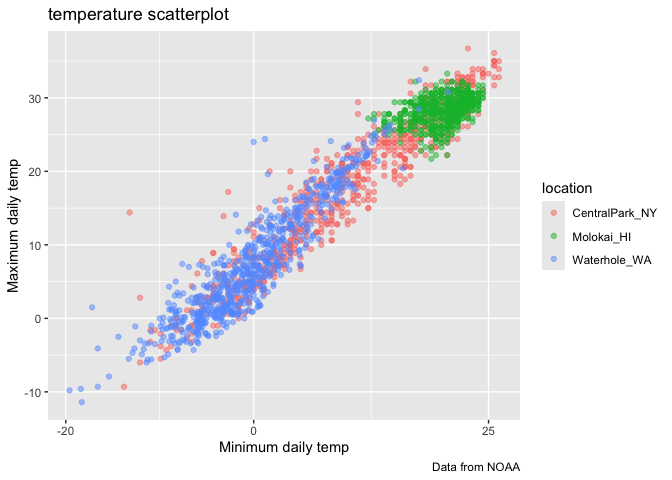
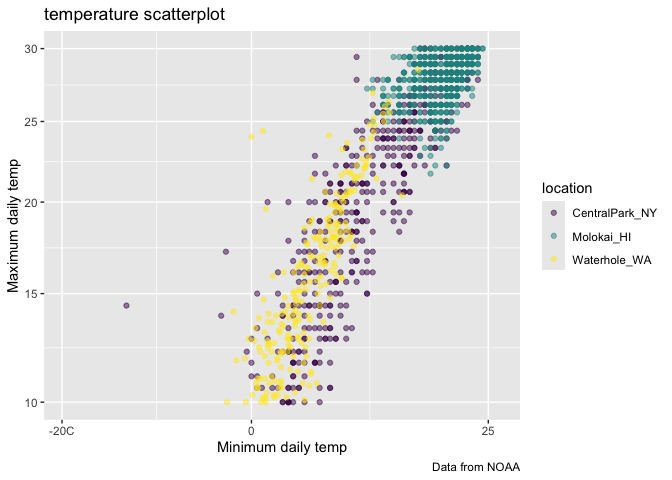
updating base plot

diff --git a/visualization.md b/visualization.md
@@ -441,11 +441,24 @@ weather_df |>
     color = "location"
   ) +
   scale_x_continuous(
-    breaks = c(-20, 0, 25)
+    breaks = c(-20, 0, 25),
+    labels = c("-20C", "0", "25")
+  ) +
+  scale_y_continuous(
+    trans = "sqrt",
+    limits = c(10, 30)
+  ) +
+  viridis::scale_color_viridis(
+    discrete = TRUE
   )
 ```
 
-    ## Warning: Removed 17 rows containing missing values or values outside the scale range
+    ## Warning in transformation$transform(x): NaNs produced
+
+    ## Warning in scale_y_continuous(trans = "sqrt", limits = c(10, 30)): sqrt
+    ## transformation introduced infinite values.
+
+    ## Warning: Removed 843 rows containing missing values or values outside the scale range
     ## (`geom_point()`).
 
 ![](visualization_files/figure-gfm/unnamed-chunk-25-1.png)<!-- -->
